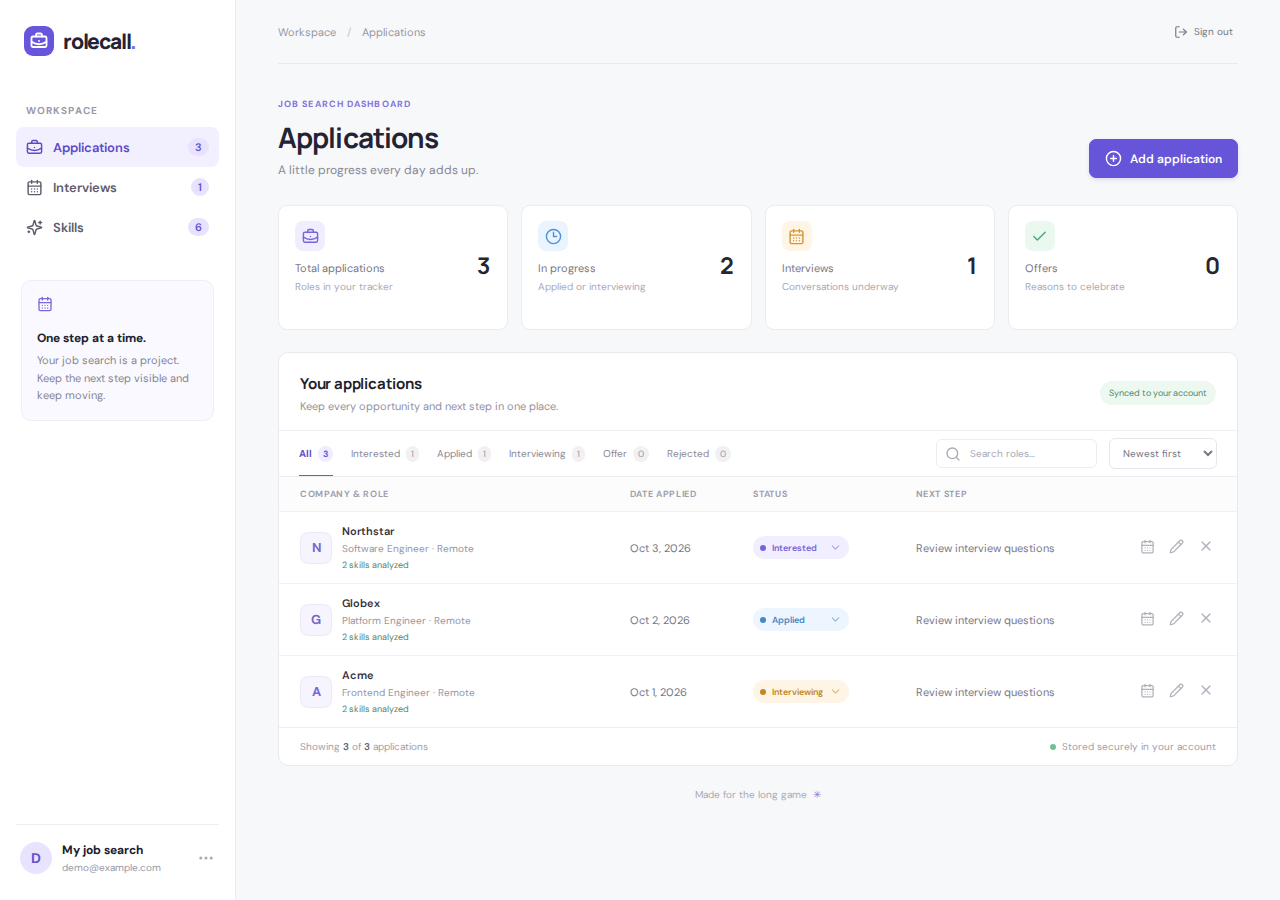
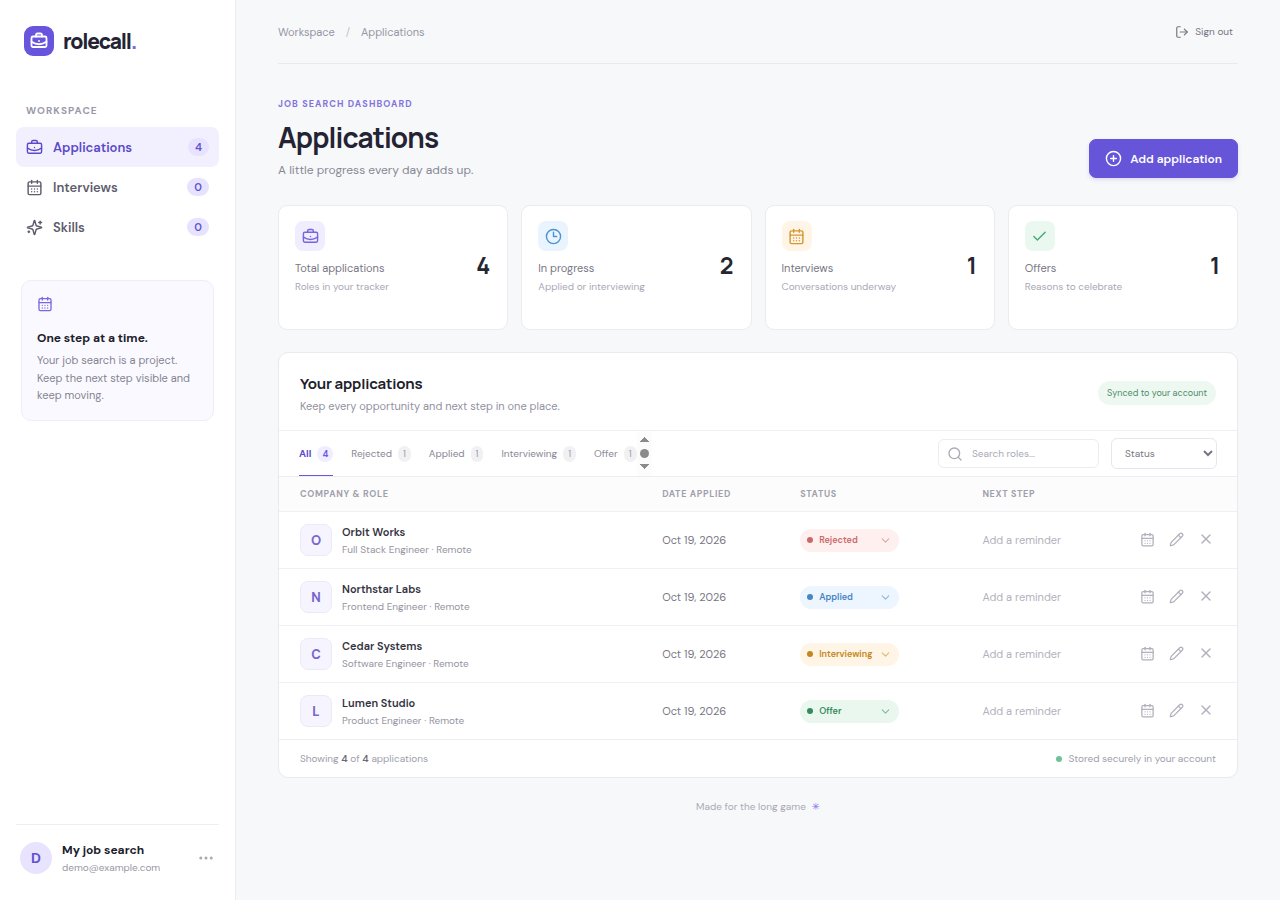
Refresh application screenshots for status ordering

diff --git a/docs/wiki/Maintenance.md b/docs/wiki/Maintenance.md
@@ -47,7 +47,7 @@ Review the wiki checkout diff, commit and push from that checkout, then inspect 
 
 Assets are committed inside the wiki repository, so image references use stable relative `assets/<name>.png` paths rather than branch URLs or local paths. Existing images were captured from production components with fictional Acme/Globex fixtures; no credentials/account data were used. Desktop captures use 1280-pixel widths and mobile captures use 390-pixel widths. Reproduce the current production screen with fictional fixtures, verify responsive layout and interactions, and replace the relevant image with a descriptive filename and alt text. Do not publish a temporary fixture harness or real account screenshot.
 
-Interview images demonstrate agenda/type filters, Skills demonstrates application scope and priority, and practice images demonstrate sticky controls and editable prompt previews. They represent selected main workflows rather than every dialog. Knowledge-control and combined-selection images now reuse sanitized production-component captures from issues #51 and #56. Application-list images predate #63 status ordering and may show Interested: refresh them before final wiki acceptance. The immediate-save interview editor also needs new desktop/mobile captures. Application-list and sign-in captures are created with a fictional in-memory database/auth fixture; no network account data is used.
+Interview images demonstrate agenda/type filters, Skills demonstrates application scope and priority, and practice images demonstrate sticky controls and editable prompt previews. They represent selected main workflows rather than every dialog. Knowledge-control and combined-selection images now reuse sanitized production-component captures from issues #51 and #56. Application-list images now reuse the sanitized status-ordering captures from issue #63. The immediate-save interview editor also needs new desktop/mobile captures. Application-list and sign-in captures are created with a fictional in-memory database/auth fixture; no network account data is used.
 
 Mermaid diagrams live in page code blocks. Keep labels short and state when diagram entities are conceptual (embedded JSON is not a table). Verify rendered diagrams and links in GitHub after publication. If a renderer does not support Mermaid, provide a static exported diagram alongside the source.
 

diff --git a/docs/wiki/Application-overview.md b/docs/wiki/Application-overview.md
@@ -8,9 +8,7 @@ Create a record with company, role, location, application date, posting URL, not
 
 An **application** is one role at one company. Two applications at the same company remain separate records. A **skill** is extracted from that application's saved posting. Its knowledge level belongs to that application skill, rather than globally to the skill name.
 
-The following application-list captures predate the status-ordering update and may show the retired Interested status; the supported statuses and order are described above. Refresh these captures before final wiki publication.
-
-![Earlier desktop application list with fictional records](assets/applications-desktop.png)
+![Desktop application list with fictional records](assets/applications-desktop.png)
 
 ![Mobile application list with fictional records](assets/applications-mobile.png)
 
